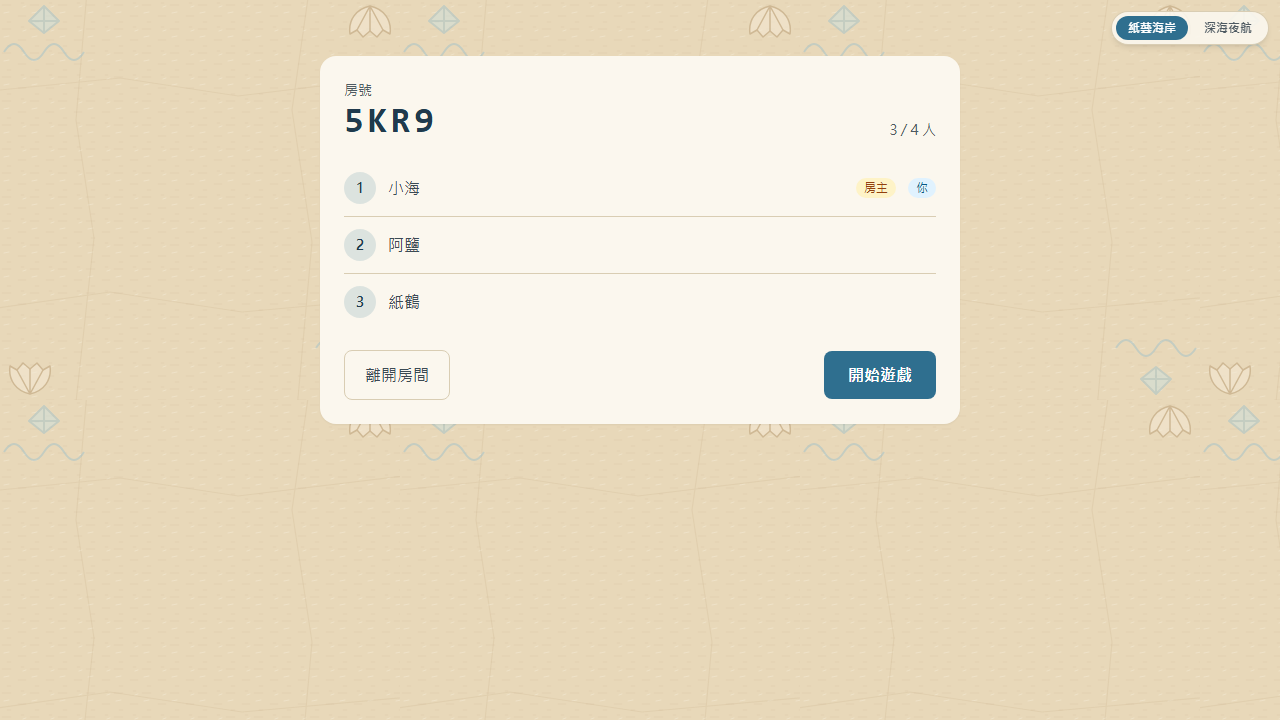
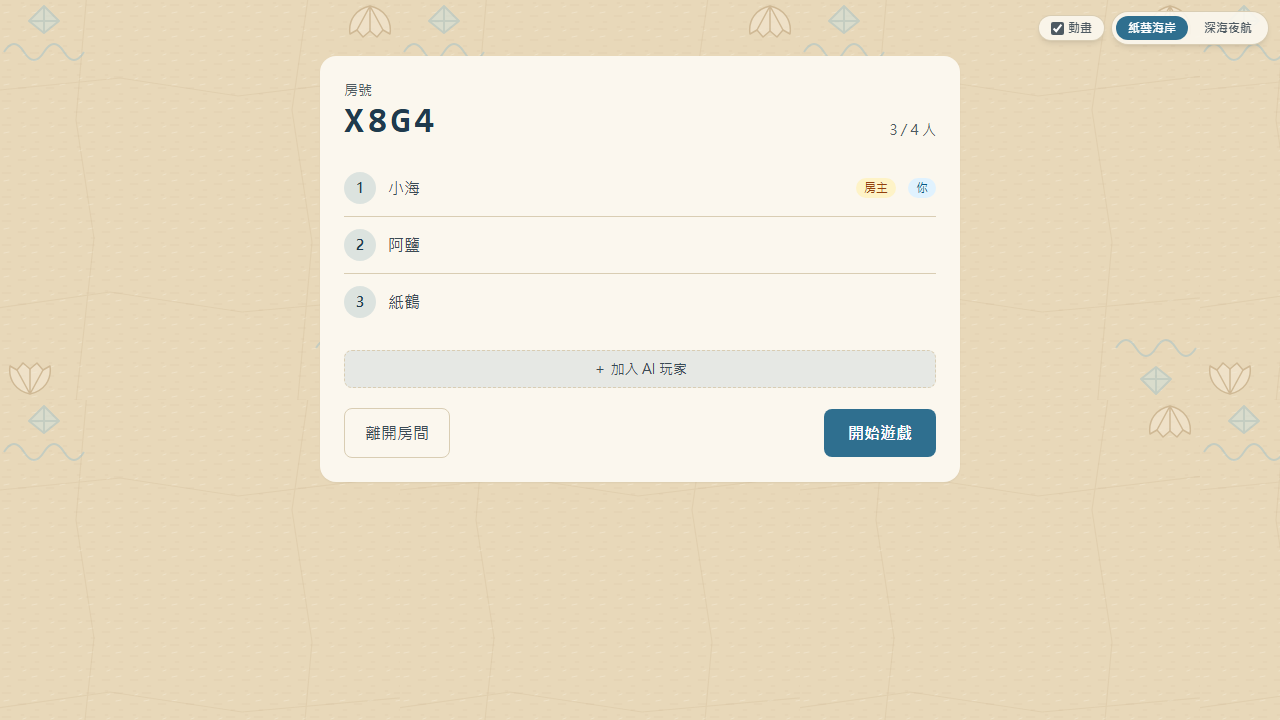
test: 線上 S4-3 單人配 AI、手冊補 AI／動畫／流程圖截圖
- tests/live：新增 [S4-3]；開局前關閉動畫，縮短迴圈等待，整局時限 24 分鐘
- tests/manual：新增 AI 大廳、單人牌局、飛牌與 STOP 動畫、流程圖截圖（29–33），其餘截圖重新產生

Claude-Session: https://claude.ai/code/session_01XgF6Q6HuspwHAqdcda9DK9

diff --git a/tests/manual/screens.spec.ts b/tests/manual/screens.spec.ts
@@ -1,8 +1,15 @@
+/// <reference lib="dom" />
+import { mkdtempSync } from 'node:fs'
+import { tmpdir } from 'node:os'
+import { join } from 'node:path'
+import { pathToFileURL } from 'node:url'
 import type { Browser, Page } from '@playwright/test'
+import { exportBoard, resolveCommit } from '../../scripts/flow-board/export'
 import { markOffline, placeGame, readRoom } from '../e2e/admin'
 import { expect, test, createRoom, joinRoom, openHome } from '../e2e/helpers'
 
 const OUT = 'docs/manual/img'
+const REPO = join(import.meta.dirname, '../..')
 
 async function shot(page: Page, name: string): Promise<void> {
   await page.waitForTimeout(300)
@@ -29,6 +36,29 @@ async function start(host: Page, guests: Page[]): Promise<void> {
 
 function hand(page: Page, id: string) {
   return page.locator(`[data-testid="hand-card"][data-card-id="${id}"]`)
+}
+
+/** 安裝可暫停的計時器後才載入頁面，供 freezeAnimation 使用 */
+async function openWithClock(browser: Browser): Promise<Page> {
+  const page = await (await browser.newContext()).newPage()
+  await page.clock.install()
+  await page.goto('./')
+  await expect(page.getByTestId('nickname')).toBeVisible()
+  return page
+}
+
+/** 動畫元素出現後暫停頁面計時器，並把動畫停在 progress（0～1）的位置 */
+async function freezeAnimation(page: Page, testId: string, progress: number): Promise<void> {
+  await page.getByTestId(testId).first().waitFor({ state: 'attached' })
+  await page.clock.pauseAt(await page.evaluate(() => Date.now() + 50))
+  await page.evaluate((p) => {
+    for (const a of document.querySelector('[data-testid="anim-layer"]')?.getAnimations({ subtree: true }) ?? []) {
+      const end = a.effect?.getComputedTiming().endTime
+      if (typeof end !== 'number') continue
+      a.pause()
+      a.currentTime = end * p
+    }
+  }, progress)
 }
 
 test('01 首頁與大廳', async ({ browser }) => {
@@ -208,4 +238,50 @@ test('08 深海夜航主題', async ({ browser }) => {
   await host.goto('./')
   await expect(host.getByTestId('nickname')).toBeVisible()
   await shot(host, '28-night-home')
+})
+
+test('09 AI 玩家', async ({ browser }) => {
+  const host = await openHome(browser)
+  await createRoom(host, '小海')
+  await host.getByTestId('add-ai').click()
+  await expect(host.getByTestId('ai-badge')).toHaveCount(1)
+  await shot(host, '29-lobby-ai')
+
+  const solo = await openHome(browser)
+  await solo.getByTestId('nickname').fill('阿鹽')
+  await solo.getByTestId('solo-2').click()
+  await expect(solo.getByTestId('game-status')).toHaveText('遊戲進行中')
+  await expect(solo.getByTestId('action-draw')).toBeEnabled({ timeout: 20_000 })
+  await shot(solo, '30-solo-game')
+})
+
+test('10 動作動畫', async ({ browser }) => {
+  const host = await openWithClock(browser)
+  const code = await createRoom(host, '小海')
+  const guest = await openHome(browser)
+  await joinRoom(guest, '阿鹽', code)
+  await expect(guest.getByTestId('lobby-code')).toHaveText(code)
+  await start(host, [guest])
+
+  await placeGame(code, { phase: 'draw', current: 1, hands: [['fish-1', 'octopus-1'], ['boat-1']], discards: [['shell-1'], ['crab-1']] })
+  await expect(guest.getByTestId('action-take-1')).toBeEnabled()
+  await guest.getByTestId('action-take-1').click()
+  await freezeAnimation(host, 'anim-flight', 0.5)
+  await shot(host, '31-anim-flight')
+  await host.clock.resume()
+
+  const shells = ['shell-1', 'shell-2', 'shell-3', 'shell-4', 'shell-5']
+  await placeGame(code, { phase: 'actions', current: 1, hands: [['fish-1'], shells], discards: [['crab-1'], ['crab-2']] })
+  await expect(guest.getByTestId('declare-stop')).toBeEnabled()
+  await guest.getByTestId('declare-stop').click()
+  await freezeAnimation(host, 'anim-banner', 0.5)
+  await shot(host, '32-anim-stop')
+  await host.clock.resume()
+})
+
+test('11 公開流程圖', async ({ page }) => {
+  const file = await exportBoard(REPO, mkdtempSync(join(tmpdir(), 'flow-manual-')), resolveCommit(process.env, REPO))
+  await page.goto(pathToFileURL(file).href)
+  await expect(page.locator('[data-node]').first()).toBeVisible()
+  await shot(page, '33-flow-page')
 })

diff --git a/tests/live/deploy.spec.ts b/tests/live/deploy.spec.ts
@@ -8,6 +8,11 @@ function expectedSha(): string {
   return process.env.EXPECTED_SHA ?? execSync('git rev-parse origin/main', { encoding: 'utf8' }).trim()
 }
 
+/** 線上測試驗的是對局流程，關掉動畫縮短整局時間 */
+async function disableAnimations(page: Page): Promise<void> {
+  await page.getByTestId('anim-toggle').locator('input').uncheck()
+}
+
 async function clickIfEnabled(page: Page, testId: string): Promise<boolean> {
   const button = page.getByTestId(testId).first()
   if ((await button.count()) === 0 || !(await button.isEnabled())) return false
@@ -69,14 +74,16 @@ test('[S4-1] 線上版本就是 main 的最新 commit', async ({ page }) => {
 
 test('[S4-2] 兩個不同瀏覽器在線上網址完成一整局', async ({ browser }) => {
   const host = await openHome(browser)
+  await disableAnimations(host)
   const code = await createRoom(host, '線上房主')
   const guest = await openHome(browser)
+  await disableAnimations(guest)
   await joinRoom(guest, '線上客人', code)
   await expect(guest.getByTestId('lobby-code')).toHaveText(code)
   await host.getByTestId('start-game').click()
   for (const page of [host, guest]) await expect(page.getByTestId('game-status')).toHaveText('遊戲進行中')
 
-  const deadline = Date.now() + 14 * 60_000
+  const deadline = Date.now() + 24 * 60_000
   while ((await host.getByTestId('game-over').count()) === 0) {
     expect(Date.now(), '對局在時限內沒有結束').toBeLessThan(deadline)
     let acted = await clickIfEnabled(host, 'next-round')
@@ -84,11 +91,30 @@ test('[S4-2] 兩個不同瀏覽器在線上網址完成一整局', async ({ brow
       if (acted) break
       if (/^輪到你/.test((await page.getByTestId('turn-text').textContent()) ?? '')) acted = await step(page)
     }
-    await host.waitForTimeout(acted ? 400 : 800)
+    await host.waitForTimeout(acted ? 150 : 400)
   }
 
   for (const page of [host, guest]) {
     await expect(page.getByTestId('game-status')).toHaveText('遊戲已結束')
     await expect(page.getByTestId('winner')).toHaveText(/獲勝/)
   }
+})
+
+test('[S4-3] 一個瀏覽器在線上網址開單人遊戲配 1 個 AI，打完一整場', async ({ browser }) => {
+  const page = await openHome(browser)
+  await disableAnimations(page)
+  await page.getByTestId('nickname').fill('線上單人')
+  await page.getByTestId('solo-1').click()
+  await expect(page.getByTestId('game-status')).toHaveText('遊戲進行中')
+
+  const deadline = Date.now() + 24 * 60_000
+  while ((await page.getByTestId('game-over').count()) === 0) {
+    expect(Date.now(), '對局在時限內沒有結束').toBeLessThan(deadline)
+    let acted = await clickIfEnabled(page, 'next-round')
+    if (!acted && /^輪到你/.test((await page.getByTestId('turn-text').textContent()) ?? '')) acted = await step(page)
+    await page.waitForTimeout(acted ? 150 : 400)
+  }
+
+  await expect(page.getByTestId('game-status')).toHaveText('遊戲已結束')
+  await expect(page.getByTestId('winner')).toHaveText(/獲勝/)
 })

diff --git a/playwright.live.config.ts b/playwright.live.config.ts
@@ -6,7 +6,7 @@ export default defineConfig({
   testDir: 'tests/live',
   fullyParallel: false,
   workers: 1,
-  timeout: 15 * 60_000,
+  timeout: 25 * 60_000,
   expect: { timeout: 20_000 },
   reporter: [['list'], ['json', { outputFile: 'node_modules/.tmp/playwright-live-results.json' }]],
   use: {
